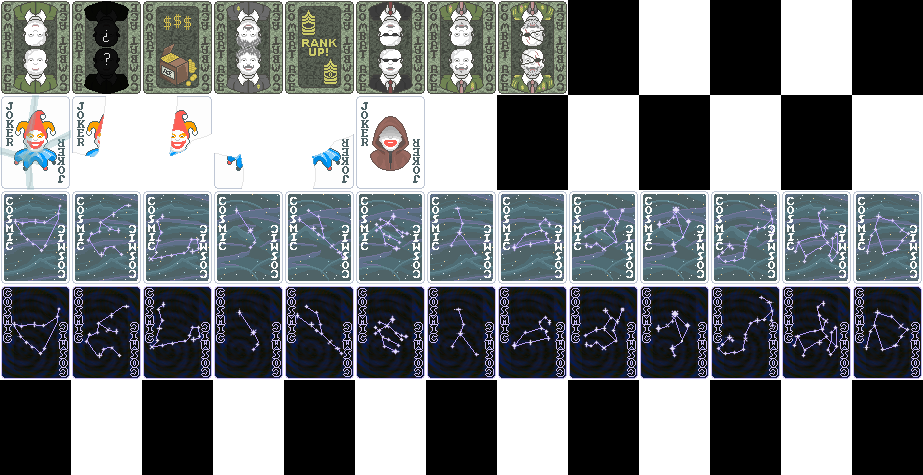
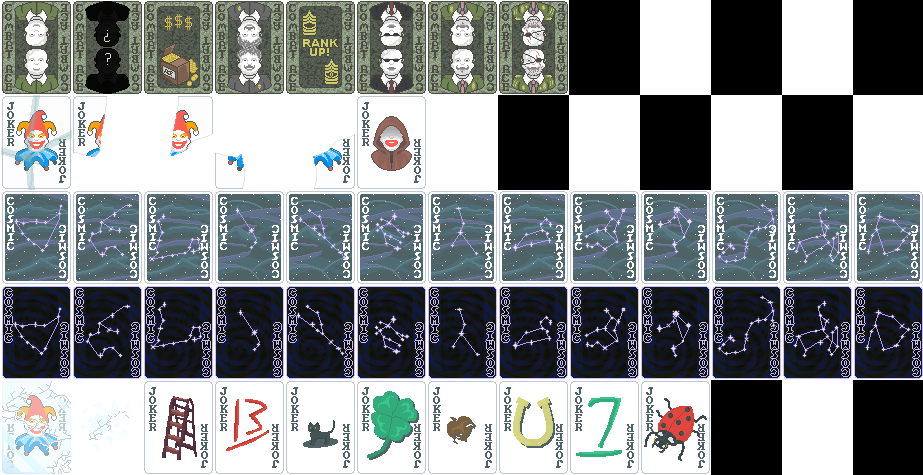
Update

Changed region(s): [[0.0, 0.0, 1.0, 1.0], [0.182, 0.2358, 0.2427, 0.3242], [0.2427, 0.3242, 0.273, 0.3537]]

diff --git a/readme.md b/readme.md
@@ -1,7 +1,7 @@
 # Blizzow's Themed Jokers<br>
 ## Jokers that may or may not synergize together<br>
 
-**Current Version: 0.6**<br>
+**Current Version: 0.7**<br>
 **Currently adds 27 Jokers**<br>
 **Currently adds 5 Tarots**<br>
 **Currently adds 3 Decks**<br>
